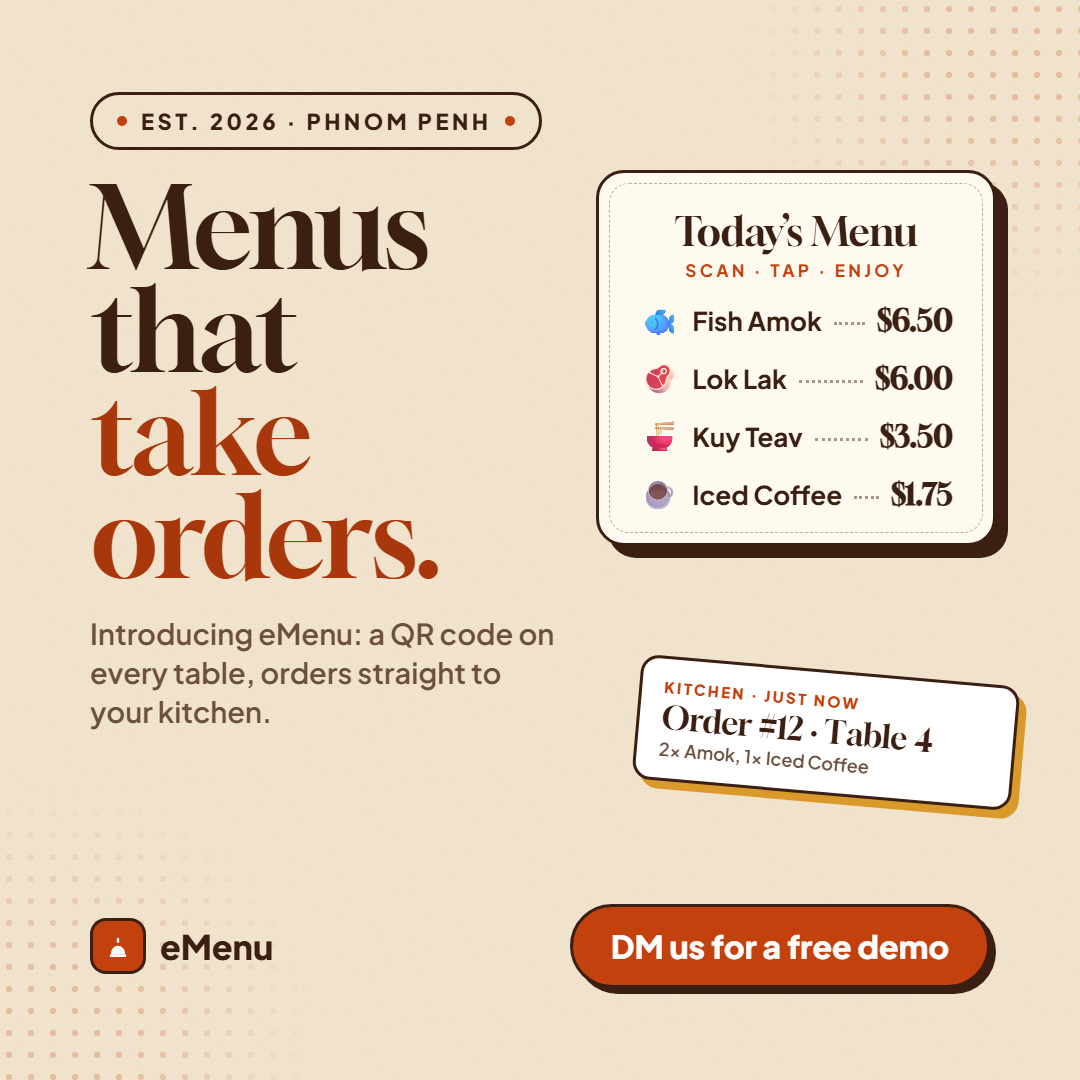
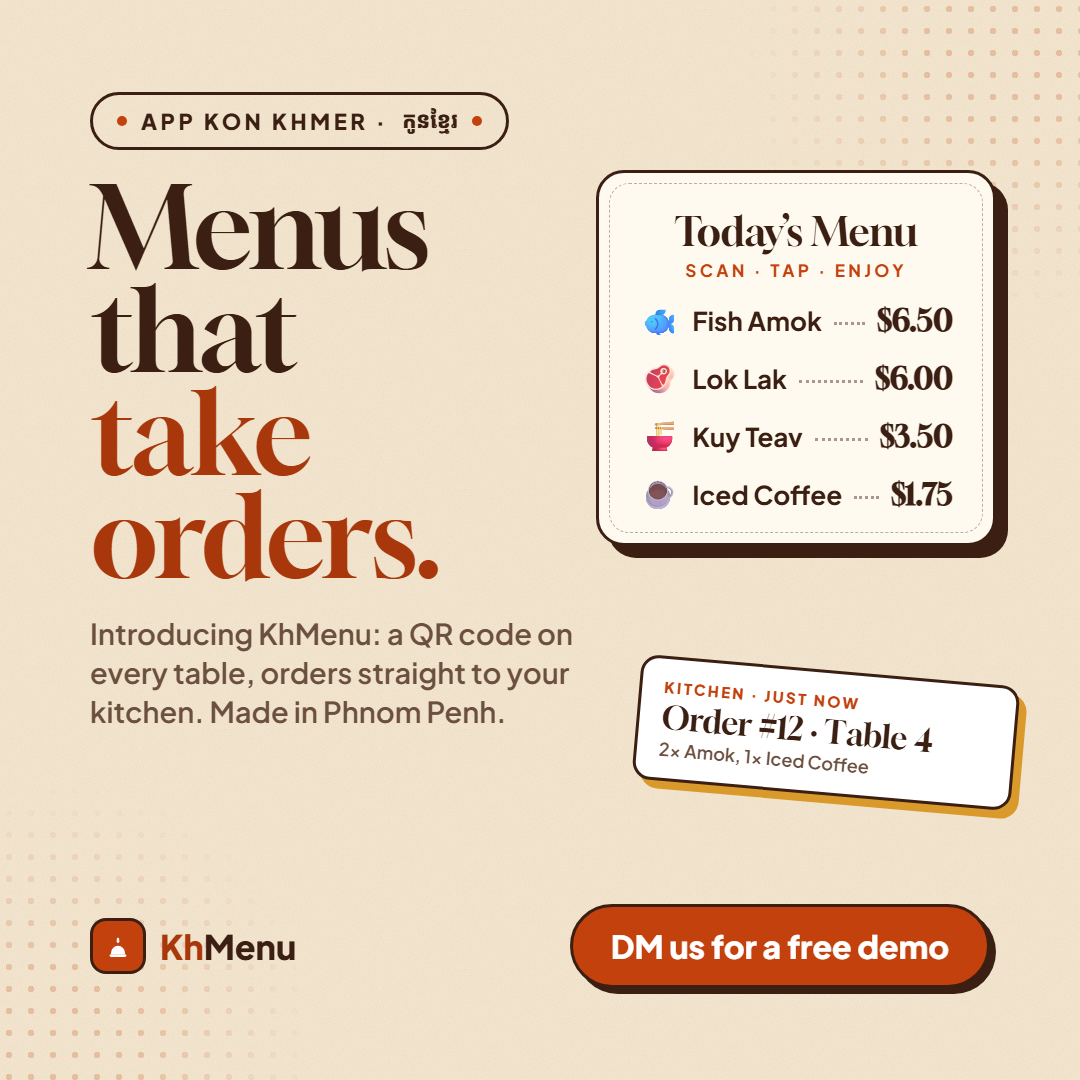
Rebrand to KhMenu with 'App kon Khmer' tagline and Khmer font

diff --git a/src/pages/LandingPage.tsx b/src/pages/LandingPage.tsx
@@ -21,7 +21,7 @@ const FEATURES = [
 
 export function LandingPage() {
   useEffect(() => {
-    document.title = 'eMenu · QR menus & table ordering for Cambodian restaurants';
+    document.title = 'KhMenu · QR menus & table ordering for Cambodian restaurants';
   }, []);
 
   return (
@@ -32,7 +32,9 @@ export function LandingPage() {
             <span className="grid size-9 place-items-center rounded-xl bg-primary text-primary-foreground">
               <UtensilsCrossed className="size-5" />
             </span>
-            eMenu
+            <span>
+              <span className="text-primary">Kh</span>Menu
+            </span>
           </span>
           <a href="#/admin" className={buttonVariants({ variant: 'outline' })}>
             Staff sign in
@@ -42,11 +44,11 @@ export function LandingPage() {
         <header className="mx-auto grid max-w-6xl items-center gap-12 px-5 pt-10 pb-20 lg:grid-cols-[1.1fr_0.9fr]">
           <div>
             <p className="mb-4 inline-flex items-center gap-2 rounded-full border bg-card px-3 py-1 text-sm font-semibold text-primary">
-              <QrCode className="size-4" /> For restaurants & cafés in Cambodia
+              <QrCode className="size-4" /> App kon Khmer · កម្មវិធីកូនខ្មែរ
             </p>
             <h1 className="text-4xl font-extrabold tracking-tight text-balance sm:text-6xl">Your menu on every phone. Orders straight to your kitchen.</h1>
             <p className="mt-5 max-w-xl text-lg leading-relaxed text-muted-foreground">
-              A QR code on each table. Diners browse your menu with photos, order from their seat, split the bill and ask for the check. Your staff see everything on one live screen.
+              Made in Phnom Penh for Cambodian restaurants and cafés. A QR code on each table. Diners browse your menu with photos, order from their seat, split the bill and ask for the check. Your staff see everything on one live screen.
             </p>
             <div className="mt-8 flex flex-wrap gap-3">
               <a href={`#/t/${DEMO_TABLE_TOKEN}`} className={cn(buttonVariants({ size: 'lg' }), 'h-12 px-5 text-base font-bold')}>
@@ -163,7 +165,7 @@ export function LandingPage() {
         </div>
       </section>
 
-      <footer className="border-t py-8 text-center text-sm text-muted-foreground">© {new Date().getFullYear()} eMenu · Made in Cambodia</footer>
+      <footer className="border-t py-8 text-center text-sm text-muted-foreground">© {new Date().getFullYear()} KhMenu · App kon Khmer · ធ្វើដោយខ្មែរ សម្រាប់ខ្មែរ</footer>
     </div>
   );
 }

diff --git a/assets/banners/launch/warm-retro.html b/assets/banners/launch/warm-retro.html
@@ -2,9 +2,10 @@
 <html lang="en">
 <head>
 <meta charset="utf-8" />
-<title>eMenu launch · warm retro</title>
-<link href="https://fonts.googleapis.com/css2?family=Gloock&family=Plus+Jakarta+Sans:wght@500;600;700;800&display=swap" rel="stylesheet" />
+<title>KhMenu launch · warm retro</title>
+<link href="https://fonts.googleapis.com/css2?family=Kantumruy+Pro:wght@600;700&family=Gloock&family=Plus+Jakarta+Sans:wght@500;600;700;800&display=swap" rel="stylesheet" />
 <style>
+  .km { font-family: 'Kantumruy Pro', sans-serif; letter-spacing: 0; text-transform: none; }
   :root { --cream: #f6ead4; --paper: #fffaf0; --orange: #c2410c; --brown: #3b1f12; --mustard: #d99a2b; --muted: #6b4f3f; }
   * { box-sizing: border-box; margin: 0; }
   html, body { width: 1080px; height: 1080px; overflow: hidden; }
@@ -53,7 +54,7 @@
   /* ---------- post (1080×1080) ---------- */
   .post .top { position: absolute; left: 90px; top: 92px; display: flex; flex-direction: column; align-items: flex-start; gap: 26px; width: 560px; }
   .post h1 { font-size: 112px; }
-  .post .lead { font-size: 29px; max-width: 470px; }
+  .post .lead { font-size: 29px; max-width: 520px; }
   .post .card { right: 84px; top: 170px; width: 400px; }
   .post .ticket { right: 64px; top: 670px; width: 380px; }
   .post .bottom { position: absolute; left: 90px; right: 90px; bottom: 92px; display: flex; align-items: center; justify-content: space-between; }
@@ -75,9 +76,9 @@
   <div class="dots a"></div><div class="dots b"></div>
 
   <div class="top">
-    <span class="stamp"><i></i>Est. 2026 · Phnom Penh<i></i></span>
+    <span class="stamp"><i></i>App kon Khmer · <span class="km">កូនខ្មែរ</span><i></i></span>
     <h1>Menus that<br /><em>take orders.</em></h1>
-    <p class="lead">Introducing eMenu: a QR code on every table, orders straight to your kitchen.</p>
+    <p class="lead">Introducing KhMenu: a QR code on every table, orders straight to your kitchen. Made in Phnom Penh.</p>
   </div>
 
   <div class="card">
@@ -100,7 +101,7 @@
       <span class="mark">
         <svg width="34" height="34" viewBox="0 0 512 512" fill="none" stroke="#fff" stroke-width="40" stroke-linecap="round"><path d="M150 400h212"/><path d="M170 360a86 86 0 0 1 172 0z" fill="#fff"/><path d="M256 190v-24"/><circle cx="256" cy="150" r="18" fill="#fff" stroke="none"/></svg>
       </span>
-      eMenu
+      <span><span style="color:#a8380b">Kh</span>Menu</span>
     </div>
     <span class="cta">DM us for a free demo</span>
   </div>

diff --git a/assets/banners/launch/phone-mockup.html b/assets/banners/launch/phone-mockup.html
@@ -2,9 +2,10 @@
 <html lang="en">
 <head>
 <meta charset="utf-8" />
-<title>eMenu launch · phone mock-up</title>
-<link href="https://fonts.googleapis.com/css2?family=Plus+Jakarta+Sans:wght@500;600;700;800&display=swap" rel="stylesheet" />
+<title>KhMenu launch · phone mock-up</title>
+<link href="https://fonts.googleapis.com/css2?family=Kantumruy+Pro:wght@600;700&family=Plus+Jakarta+Sans:wght@500;600;700;800&display=swap" rel="stylesheet" />
 <style>
+  .km { font-family: 'Kantumruy Pro', sans-serif; letter-spacing: 0; text-transform: none; }
   :root { --orange: #c2410c; --deep: #7c2d12; --cream: #fff7ed; --ink: #1c1917; --muted: #78716c; }
   * { box-sizing: border-box; margin: 0; }
   html, body { width: 1080px; height: 1080px; overflow: hidden; }
@@ -95,9 +96,9 @@
       <span class="mark">
         <svg width="40" height="40" viewBox="0 0 512 512" fill="none" stroke="#c2410c" stroke-width="40" stroke-linecap="round"><path d="M150 400h212"/><path d="M170 360a86 86 0 0 1 172 0z" fill="#c2410c"/><path d="M256 190v-24"/><circle cx="256" cy="150" r="18" fill="#c2410c" stroke="none"/></svg>
       </span>
-      eMenu
+      KhMenu
     </div>
-    <span class="eyebrow" style="align-self: var(--eyebrow-align, flex-start)">Now live in Cambodia</span>
+    <span class="eyebrow" style="align-self: var(--eyebrow-align, flex-start)">App kon Khmer · <span class="km">កូនខ្មែរ</span></span>
     <h1>Scan.<br />Order.<br />Done.</h1>
     <p class="sub">QR menus &amp; table ordering. Every order rings straight to your kitchen.</p>
   </div>
@@ -107,7 +108,7 @@
       <svg width="38" height="38" viewBox="0 0 512 512" fill="none" stroke="#fff" stroke-width="40" stroke-linecap="round"><path d="M150 400h212"/><path d="M170 360a86 86 0 0 1 172 0z" fill="#fff"/><path d="M256 190v-24"/><circle cx="256" cy="150" r="18" fill="#fff" stroke="none"/></svg>
     </span>
     <div>
-      <div class="app">eMenu Staff · now</div>
+      <div class="app">KhMenu Staff · now</div>
       <div class="title">New order #12 · Table 4</div>
       <div class="body">2× Fish Amok, 1× Iced Coffee · $14.75</div>
     </div>

diff --git a/src/pages/admin/AdminPage.tsx b/src/pages/admin/AdminPage.tsx
@@ -25,7 +25,7 @@ export function AdminPage() {
   const [session, setSession] = useState<Session | null | undefined>(undefined);
 
   useEffect(() => {
-    document.title = 'eMenu Staff';
+    document.title = 'KhMenu Staff';
     supabase.auth.getSession().then(({ data }) => setSession(data.session));
     const { data } = supabase.auth.onAuthStateChange((_event, s) => setSession(s));
     return () => data.subscription.unsubscribe();
@@ -74,7 +74,7 @@ function Login() {
           {busy ? 'Signing in…' : 'Sign in'}
         </Button>
         <a href="#/" className="block text-center text-sm text-muted-foreground hover:text-foreground">
-          ← Back to eMenu
+          ← Back to KhMenu
         </a>
       </form>
     </div>
@@ -115,7 +115,7 @@ function Dashboard({ session }: { session: Session }) {
   if (restaurant === null) {
     return (
       <MessageScreen icon={<UtensilsCrossed />} title="No restaurant linked">
-        <p className="text-muted-foreground">This account isn’t linked to a restaurant yet. Contact eMenu support.</p>
+        <p className="text-muted-foreground">This account isn’t linked to a restaurant yet. Contact KhMenu support.</p>
         <Button variant="outline" onClick={() => supabase.auth.signOut()}>
           Sign out
         </Button>

diff --git a/index.html b/index.html
@@ -7,15 +7,15 @@
     <link rel="apple-touch-icon" href="/icons/apple-touch-icon.png" />
     <meta name="apple-mobile-web-app-capable" content="yes" />
     <meta name="mobile-web-app-capable" content="yes" />
-    <meta name="apple-mobile-web-app-title" content="eMenu Staff" />
+    <meta name="apple-mobile-web-app-title" content="KhMenu Staff" />
     <meta name="apple-mobile-web-app-status-bar-style" content="default" />
     <meta name="viewport" content="width=device-width, initial-scale=1.0, viewport-fit=cover" />
     <meta name="theme-color" content="#c2410c" />
     <meta name="description" content="QR code menus and table ordering for restaurants in Cambodia." />
     <link rel="preconnect" href="https://fonts.googleapis.com" />
     <link rel="preconnect" href="https://fonts.gstatic.com" crossorigin />
-    <link href="https://fonts.googleapis.com/css2?family=Plus+Jakarta+Sans:wght@400;500;600;700;800&display=swap" rel="stylesheet" />
-    <title>eMenu — QR menus & table ordering</title>
+    <link href="https://fonts.googleapis.com/css2?family=Kantumruy+Pro:wght@500;700&family=Plus+Jakarta+Sans:wght@400;500;600;700;800&display=swap" rel="stylesheet" />
+    <title>KhMenu — QR menus & table ordering</title>
   </head>
   <body>
     <div id="root"></div>

diff --git a/src/pages/admin/DeviceSetup.tsx b/src/pages/admin/DeviceSetup.tsx
@@ -51,7 +51,7 @@ export function DeviceSetup({ restaurant }: { restaurant: Restaurant }) {
     return (
       <Card icon={<Smartphone className="size-5" />} title="Install the staff app on this iPhone">
         <p>
-          Tap <Share className="inline size-4 align-text-bottom" /> <b>Share</b> in Safari, then <b>Add to Home Screen</b>. Open <b>eMenu Staff</b> from your home screen, sign in, and turn on
+          Tap <Share className="inline size-4 align-text-bottom" /> <b>Share</b> in Safari, then <b>Add to Home Screen</b>. Open <b>KhMenu Staff</b> from your home screen, sign in, and turn on
           notifications.
         </p>
       </Card>

diff --git a/public/sw.js b/public/sw.js
@@ -9,10 +9,10 @@ self.addEventListener('push', (event) => {
   try {
     data = event.data ? event.data.json() : {};
   } catch {
-    data = { title: 'eMenu', body: event.data ? event.data.text() : '' };
+    data = { title: 'KhMenu', body: event.data ? event.data.text() : '' };
   }
   event.waitUntil(
-    self.registration.showNotification(data.title || 'eMenu', {
+    self.registration.showNotification(data.title || 'KhMenu', {
       body: data.body || '',
       tag: data.tag,
       icon: '/icons/icon-192.png',

diff --git a/src/pages/admin/OrdersBoard.tsx b/src/pages/admin/OrdersBoard.tsx
@@ -105,7 +105,7 @@ export function OrdersBoard({ restaurant }: { restaurant: Restaurant }) {
   const newCount = orders.filter((o) => o.status === 'new' && !o.paid_at).length;
   useEffect(() => {
     const pending = newCount + requests.length;
-    document.title = pending > 0 ? `(${pending}) eMenu Staff` : 'eMenu Staff';
+    document.title = pending > 0 ? `(${pending}) KhMenu Staff` : 'KhMenu Staff';
   }, [newCount, requests.length]);
 
   function enableAlerts() {

diff --git a/src/index.css b/src/index.css
@@ -6,7 +6,7 @@
 
 @theme inline {
     --font-heading: var(--font-sans);
-    --font-sans: 'Plus Jakarta Sans', ui-sans-serif, system-ui, sans-serif;
+    --font-sans: 'Plus Jakarta Sans', 'Kantumruy Pro', ui-sans-serif, system-ui, sans-serif;
     --color-sidebar-ring: var(--sidebar-ring);
     --color-sidebar-border: var(--sidebar-border);
     --color-sidebar-accent-foreground: var(--sidebar-accent-foreground);

diff --git a/src/pages/MenuPage.tsx b/src/pages/MenuPage.tsx
@@ -266,7 +266,7 @@ export function MenuPage({ slug, table }: { slug: string; table?: TableInfo }) {
           <p className="mt-1">
             Powered by{' '}
             <a href="#/" className="font-semibold text-foreground">
-              eMenu
+              KhMenu
             </a>
           </p>
         </footer>
